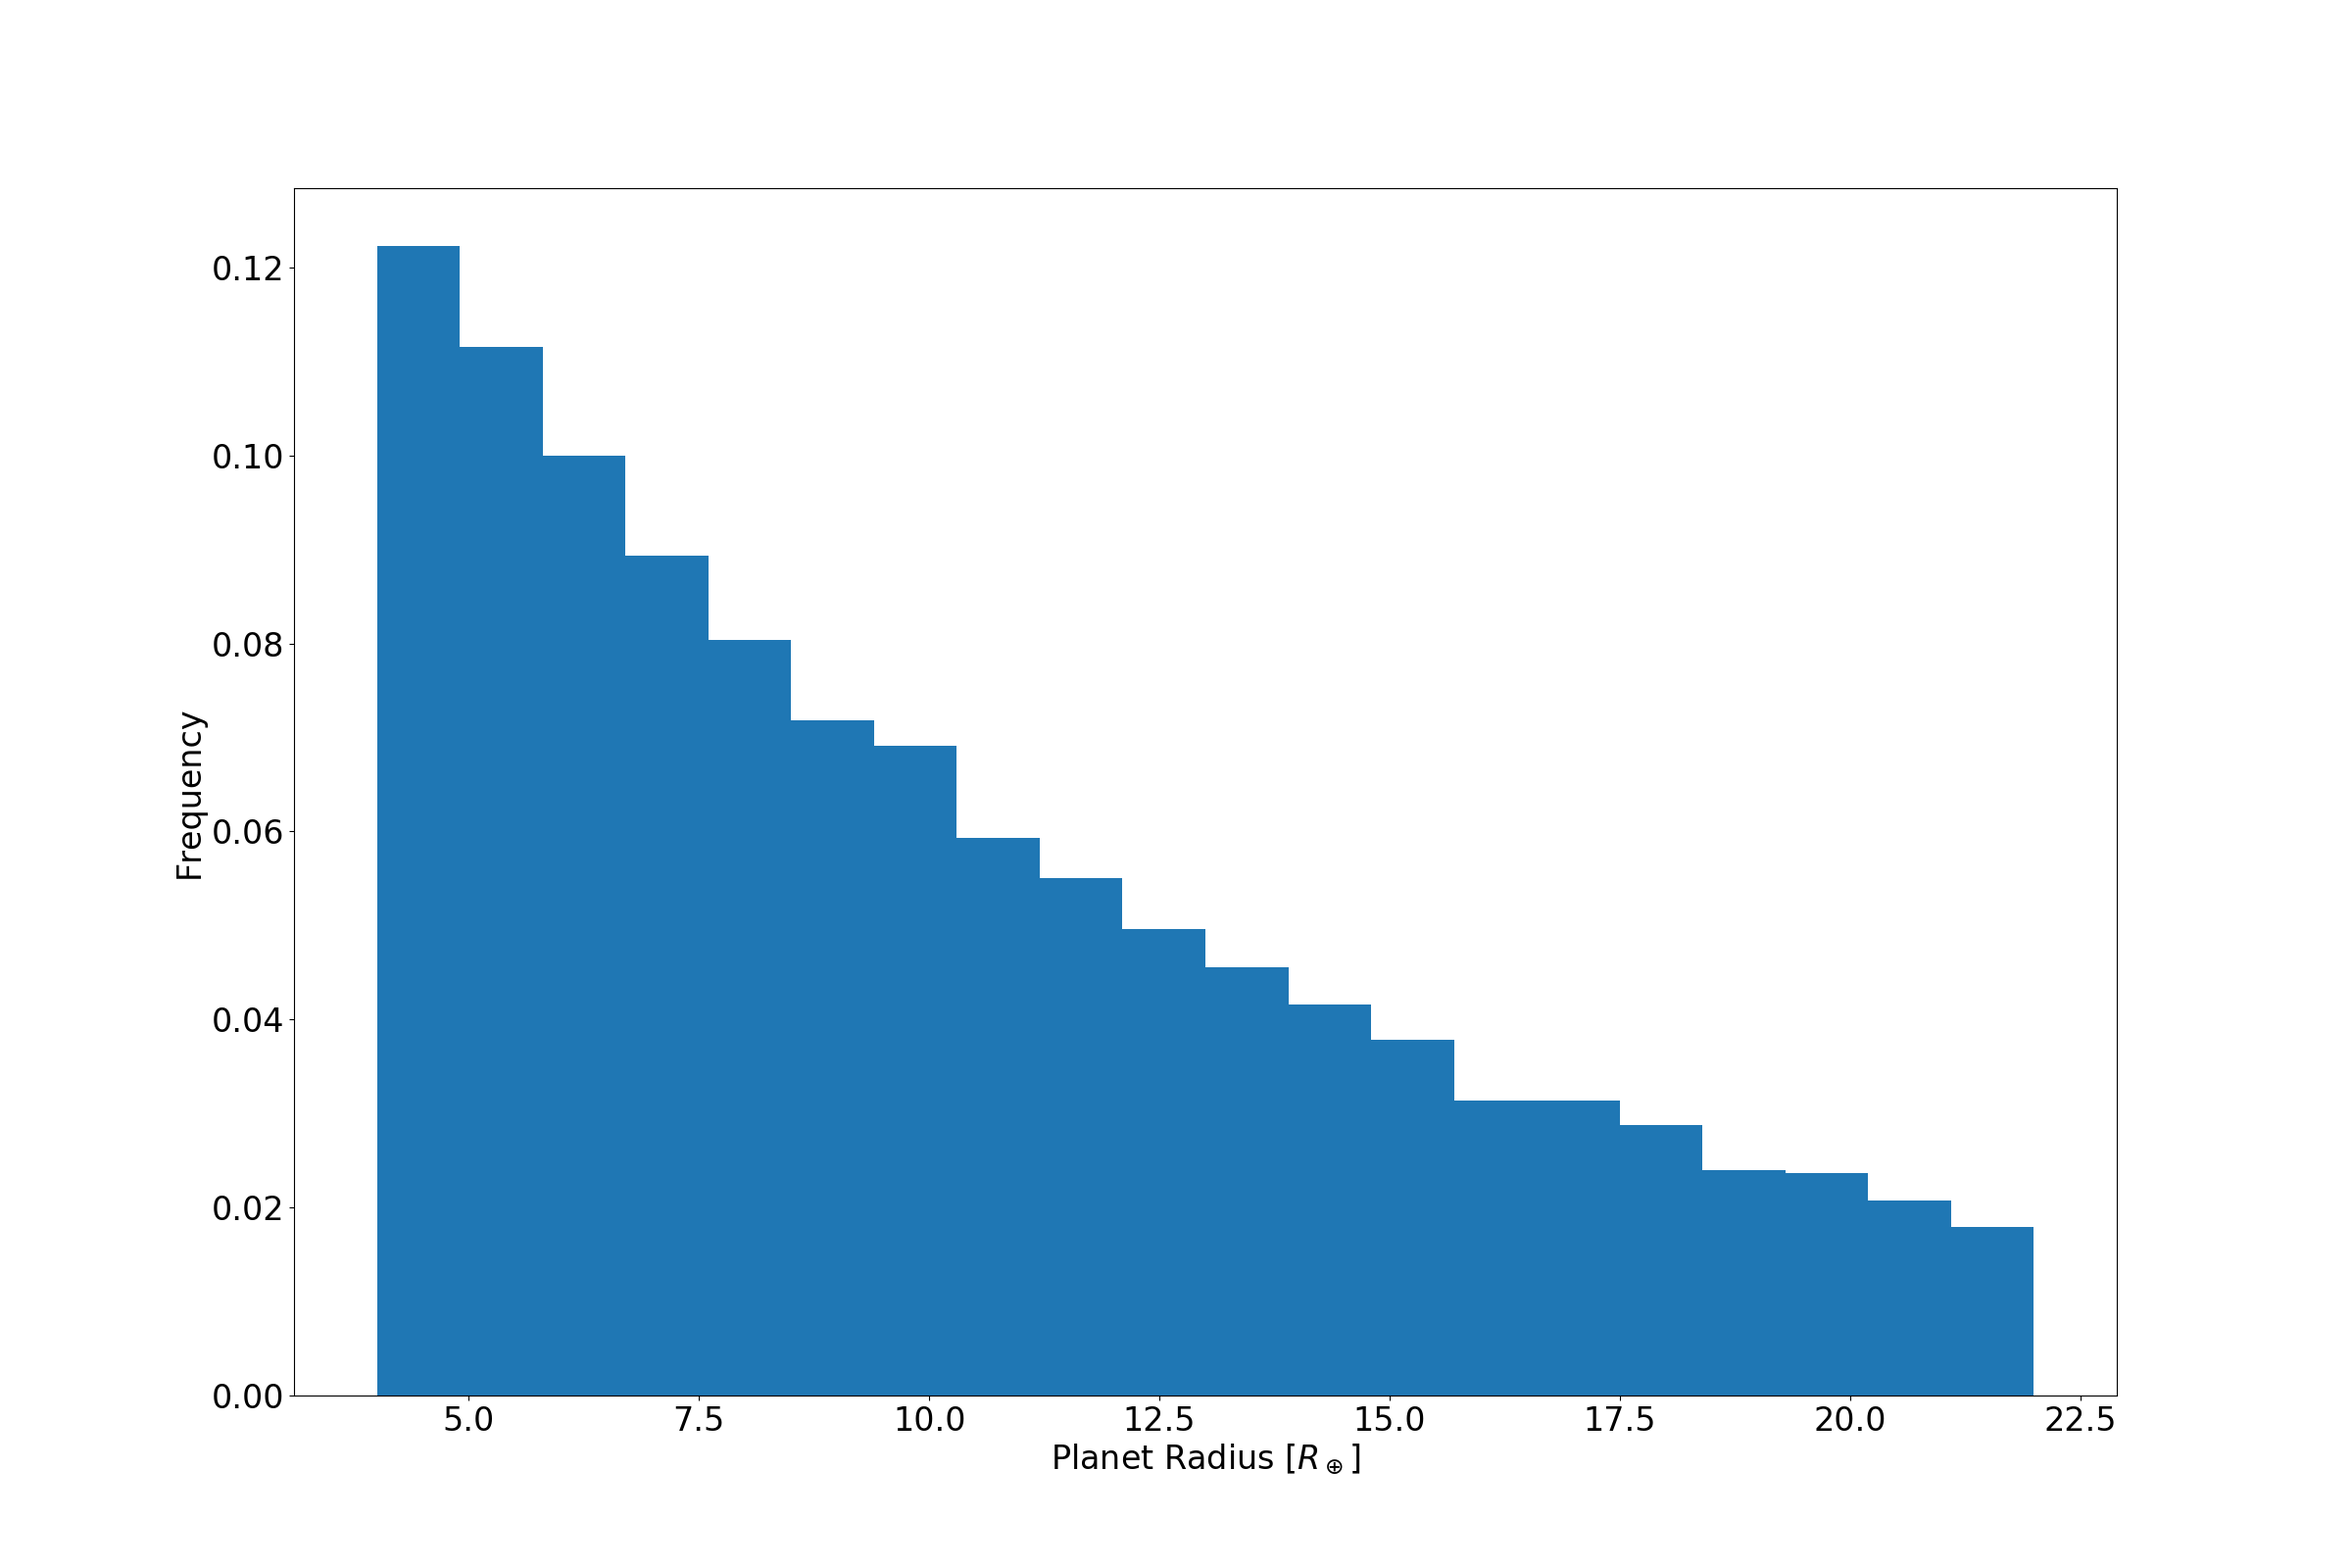
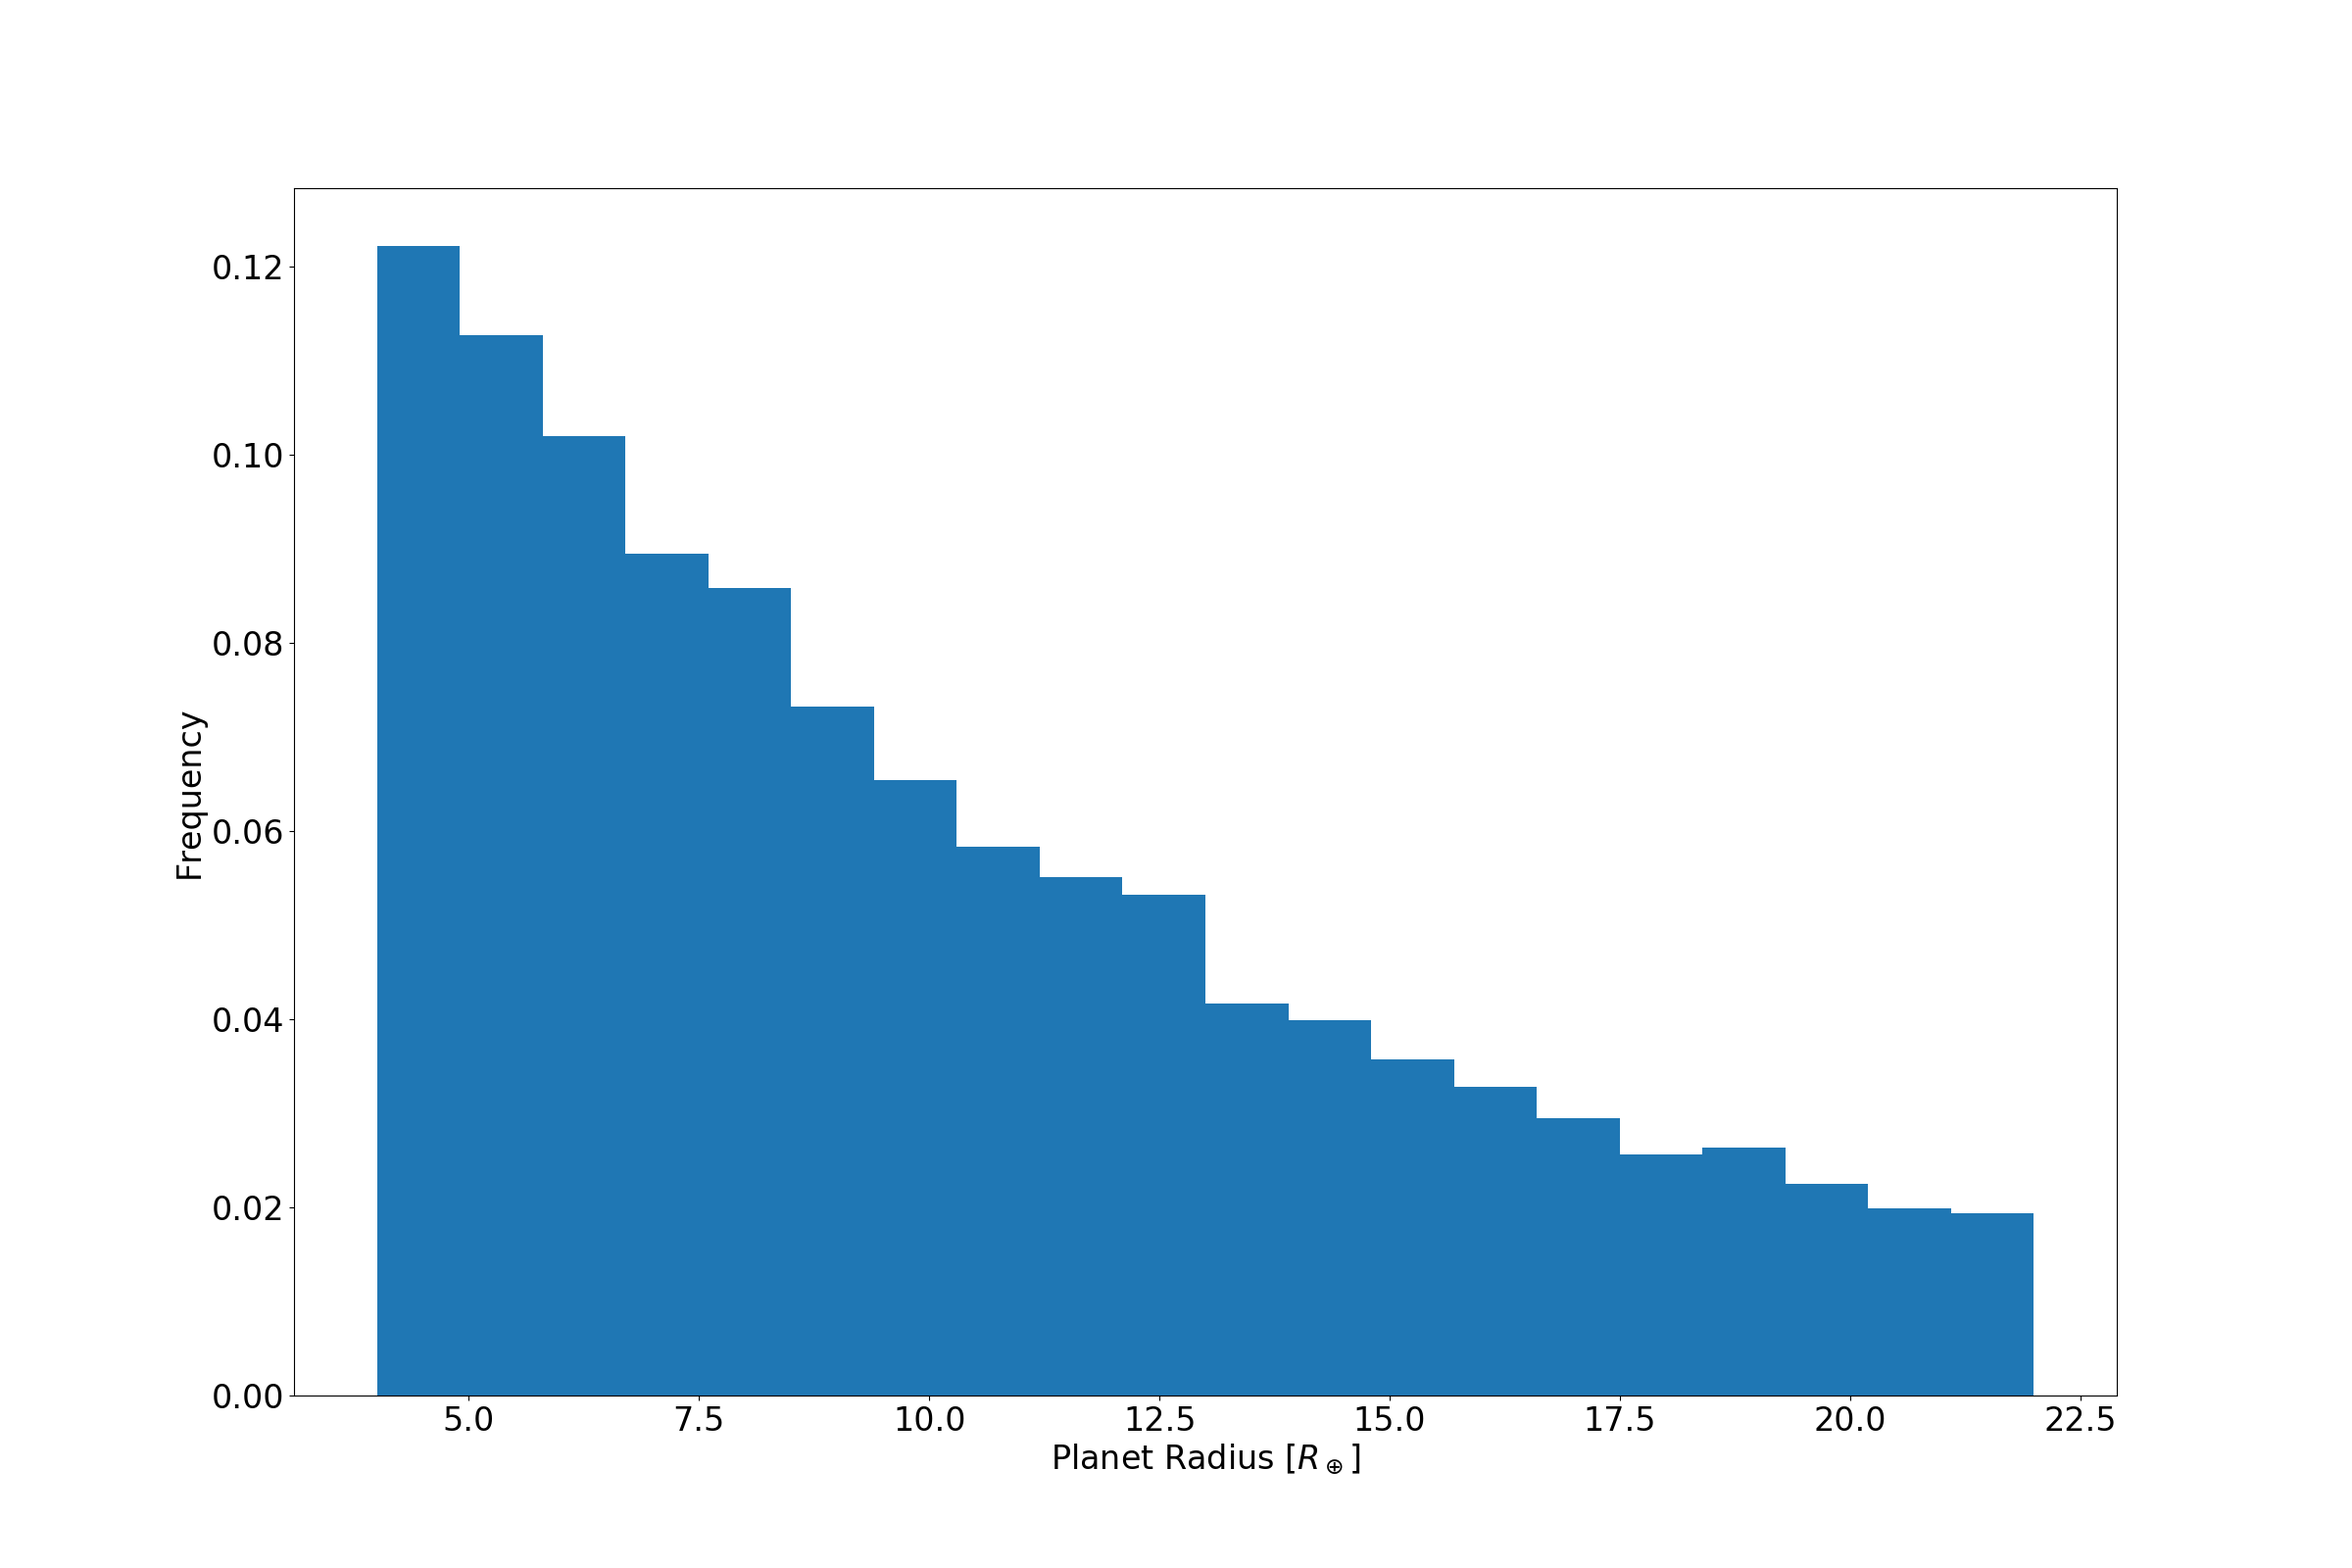
Changed some figures.

diff --git a/tess-yield/tess-yield.py b/tess-yield/tess-yield.py
@@ -19,7 +19,7 @@ G = 6.6743e-8
 # Execution flags
 star_population 			= 0
 planet_seeding 				= 1
-plot_hist 					= 0
+plot_hist 					= 1
 plot_hr 					= 0
 
 # Star data: mass, radius, teff, logg, ra, dec, observed_days, has_planet
@@ -184,7 +184,7 @@ if plot_hist:
 	plt.savefig("figures/" + "all_planet_radius_scale={:}.png".format(scale))
 
 	plt.figure(2, figsize=(24,16), dpi=100)
-	plt.hist(period, range=[0, 100], bins=20, normed=1)
+	plt.hist(period, range=[0, 100], bins=40, normed=1)
 	plt.xlabel(r"Planet Period [days]", fontsize=24)
 	plt.ylabel(r"Frequency", fontsize=24)
 	plt.tick_params(labelsize=24)
@@ -207,7 +207,7 @@ if plot_hist:
 	plt.savefig("figures/" + "transit_planet_radius_scale={:}.png".format(scale))
 
 	plt.figure(5, figsize=(24,16), dpi=100)
-	plt.hist(period[transiting_planet], range=[0, 100], bins=20, normed=1)
+	plt.hist(period[transiting_planet], range=[0, 100], bins=40, normed=1)
 	plt.xlabel(r"Planet Period [days]", fontsize=24)
 	plt.ylabel(r"Frequency", fontsize=24)
 	plt.tick_params(labelsize=24)
